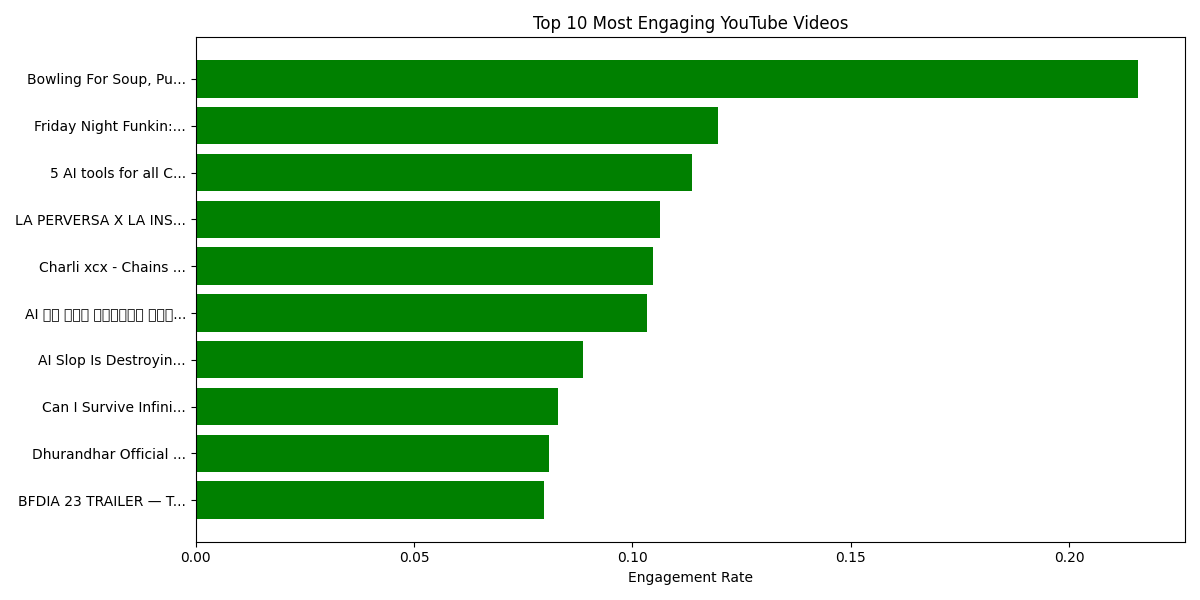
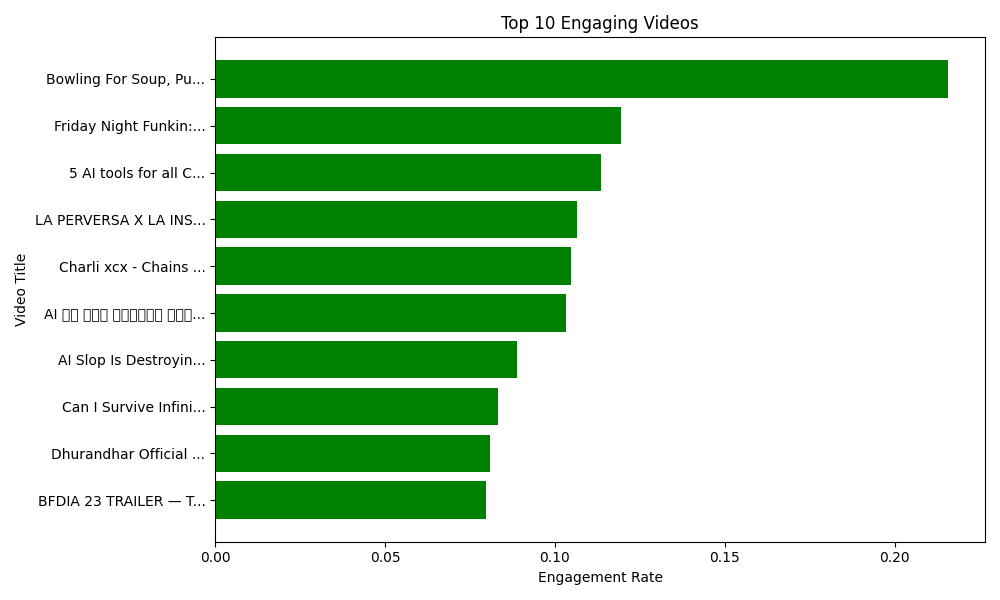
Updated to V2

diff --git a/analysis.py b/analysis.py
@@ -1,49 +1,100 @@
 import csv
+import numpy as np
 import matplotlib.pyplot as plt
 
-# Lists to store video titles and their corresponding engagement rates
-video_titles = []
-engagement_scores = []
+# Load data from CSV file
+def load_data(file_path):
+    titles = []
+    views =[]
+    likes = []
+    comments = []
 
-# Open the Dataset.csv file and read its contents
-with open("youtube_recommendation_dataset.csv", mode="r", encoding='utf-8') as file:
-    # DictReader uses the first row of the CSV as keys
-    reader = csv.DictReader(file)
+    with open(file_path, mode='r', encoding='utf-8') as file:
+        reader = csv.DictReader(file)
+        for row in reader:
+            try:
+                view_count = float(row['view_count'])
+                like_count = float(row['like_count'])
+                comment_count = float(row['comment_count'])
+            except ValueError:
+                # Skip rows with invalid data
+                continue
 
-    # Extract Title and Engagement Rate
-    data_list = []
-    for row in reader:
-        # Store the title and engagement rate in a temporary list
-        data_list.append({
-            "title": row["Title"],
-            "engagement_rate": float(row["engagement_rate"])
-        })
+            # skip videos with zero views to avoid division by zero
+            if view_count == 0:
+                continue
 
-# Sort data by engagement (Highest to Lowest)
-# This says: "Sort data_list based on the 'engagement' value"
-data_list.sort(key=lambda x: x['engagement_rate'], reverse=True)
+            titles.append(row['Title'])
+            views.append(view_count)
+            likes.append(like_count)
+            comments.append(comment_count)
 
-# Take the Top 10 most engaging videos
-top_10 = data_list[:10]
-print(top_10)
+    # Convert lists to numpy arrays for analysis
+    views = np.array(views)
+    likes = np.array(likes)
+    comments = np.array(comments)
 
-for item in top_10:
-    # Shorten the title if it's too long for better visualization
-    short_title = item["title"][:20] + "..."
-    video_titles.append(short_title)
-    engagement_scores.append(item["engagement_rate"])
+    return titles, views, likes, comments
 
-# Create a bar chart to visualize the top 10 most engaging videos
-plt.figure(figsize=(12, 6))
-plt.barh(video_titles, engagement_scores, color='green')
-plt.xlabel('Engagement Rate')
-plt.title('Top 10 Most Engaging YouTube Videos')
-plt.gca().invert_yaxis()  # Invert y-axis to show the highest engagement at the top
-plt.tight_layout()
+# Compute engagement metrics
+def compute_engagement(views, likes, comments):
+    # Safe engagement computation
+    engagment = (likes + comments) / views
+    return engagment
 
-# Save the plot as an image file
-plt.savefig("top_10_engaging_videos.png")
-# Show the plot
-plt.show()
+# Get top N videos by engagement
+def get_top_videos(titles, engagment, top_n=10):
+    top_indices = np.argsort(engagment)[-top_n:][::-1]
+    top_titles = [
+        titles[i][:20] + '...' if len(titles[i]) > 20 else titles[i] 
+        for i in top_indices
+        ]
+    top_engagement = engagment[top_indices]
+    return top_titles, top_engagement
 
-print("Analysis complete. The top 10 most engaging videos have been visualized and saved as 'top_10_engaging_videos.png'.")
+# Detect Viral Videos
+def detect_viral(engagement):
+    threshold = np.mean(engagement) + 2 * np.std(engagement)
+    viral_indices = np.where(engagement > threshold)[0]
+    return viral_indices, threshold
+
+# Visualization
+def plot_top_videos(titles, scores, file_name='top_10_engaging_videos.png'):
+    plt.figure(figsize=(10, 6))
+    plt.barh(titles, scores, color='green')
+    plt.xlabel('Engagement Rate')
+    plt.ylabel('Video Title')
+    plt.title('Top 10 Engaging Videos')
+    plt.gca().invert_yaxis() # Invert y-axis to show the highest engagement at the top
+    plt.tight_layout()
+    plt.savefig(file_name)
+    plt.show()
+
+# Main pipeline
+if __name__ == "__main__":
+    # 1. Load Data
+    file_path = 'youtube_recommendation_dataset.csv'
+    titles, views, likes, comments = load_data(file_path)
+
+    # 2. Compute Engagement
+    engagement = compute_engagement(views, likes, comments)
+
+    # 3. Get Top 10 Videos
+    top_titles, top_engagement = get_top_videos(titles, engagement, top_n=10)
+    print("Top 10 Engaging Videos:")
+    for title, score in zip(top_titles, top_engagement):
+        print(f"{title}: {score:.4f}")
+
+    # 4. Plot Top Videos
+    plot_top_videos(top_titles, top_engagement)
+
+    # 5. Detect Viral Videos
+    viral_indices, threshold = detect_viral(engagement)
+    print(f"\nViral Video Threshold: {threshold:.4f}")
+    print(f"Number of Viral Videos: {len(viral_indices)}")
+
+    # 6. Display some statistics
+    print(f"\nDataset Statistics:")
+    print(f"Average Engagement: {np.mean(engagement):.4f}")
+    print(f"Max Engagement: {np.max(engagement):.4f}")
+    print(f"Median Engagement: {np.median(engagement):.4f}")
